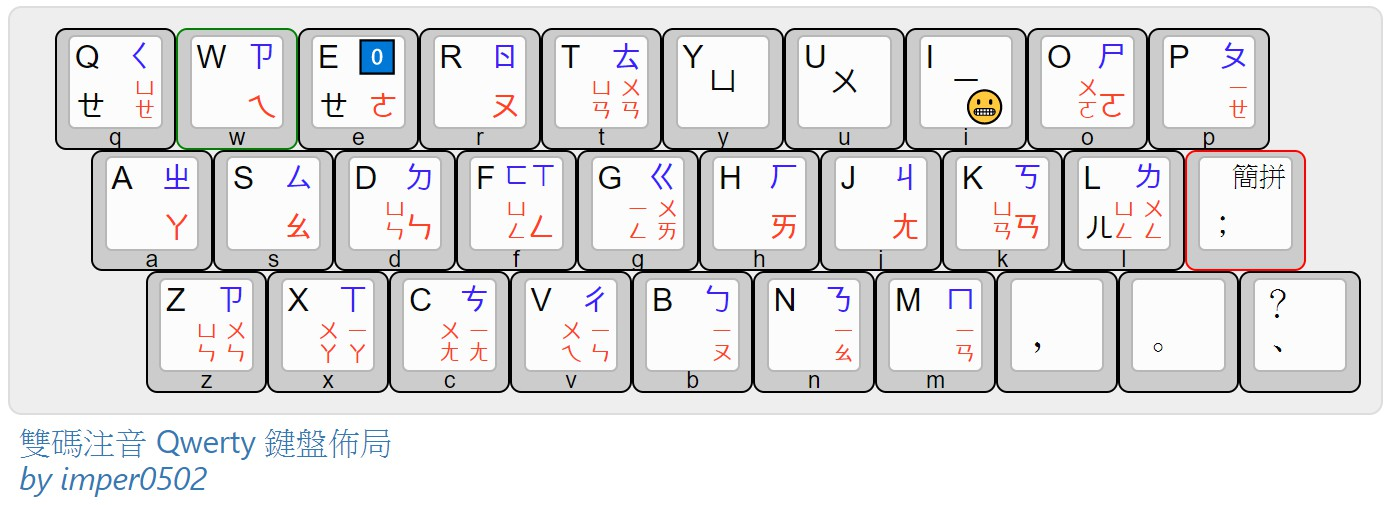
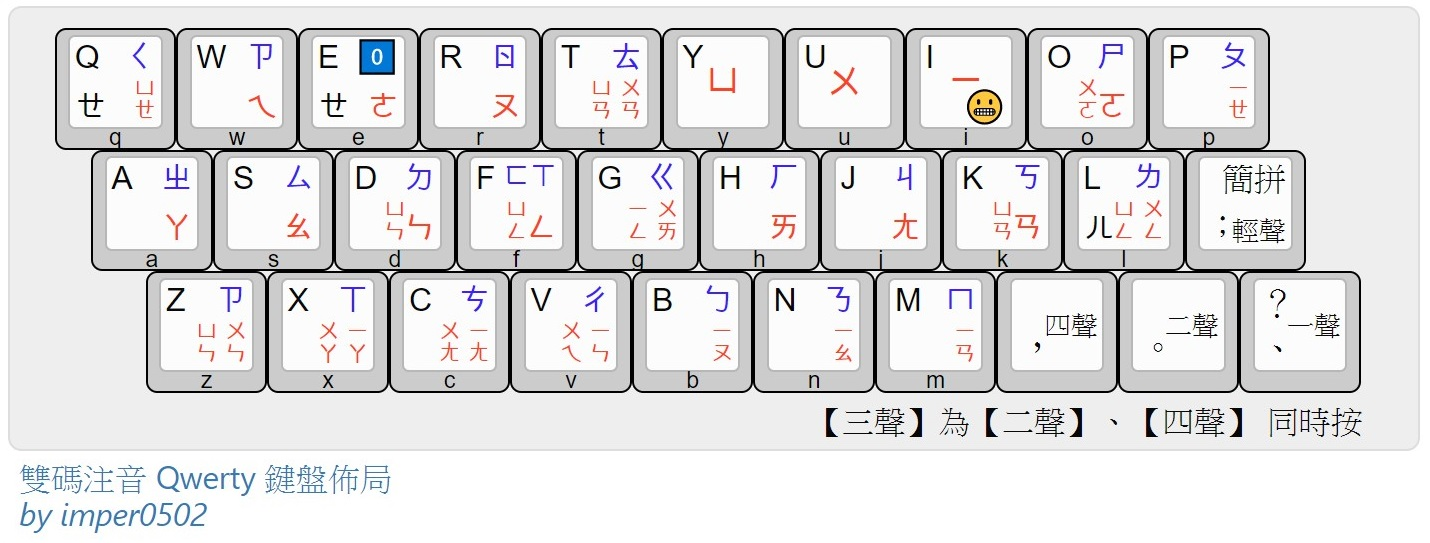
✨配合並擊處理器輸入聲調；📸更新鍵盤佈局

diff --git a/README.md b/README.md
@@ -4,7 +4,7 @@
   按鍵定位類似漢語拼音、通用拼音，但是拼音規則為注音的拼音規則。
 
 ## 鍵位圖
-  ![KB layout](https://i.imgur.com/ILvyrbM.jpg)
+  ![KB layout](https://i.imgur.com/fXLonhD.jpg)
   按下【'】鍵，可以查詢佈局。 
 
 ## 說明
